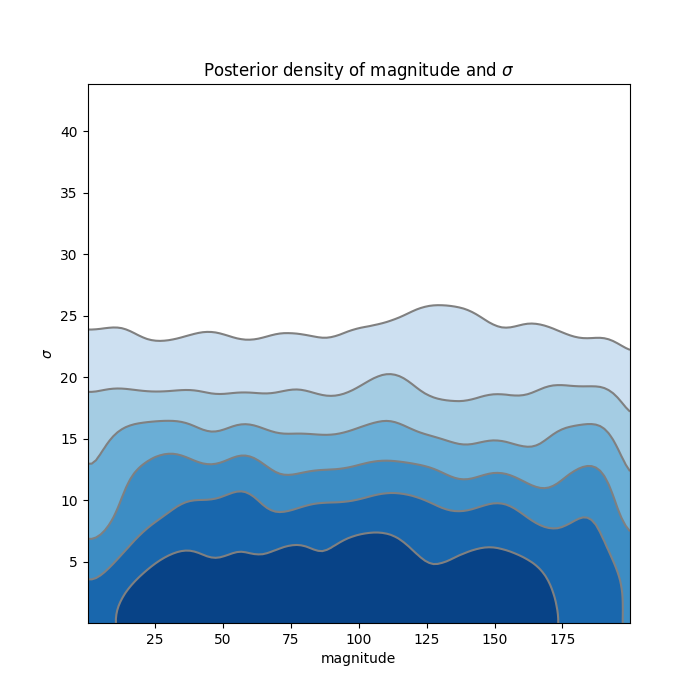
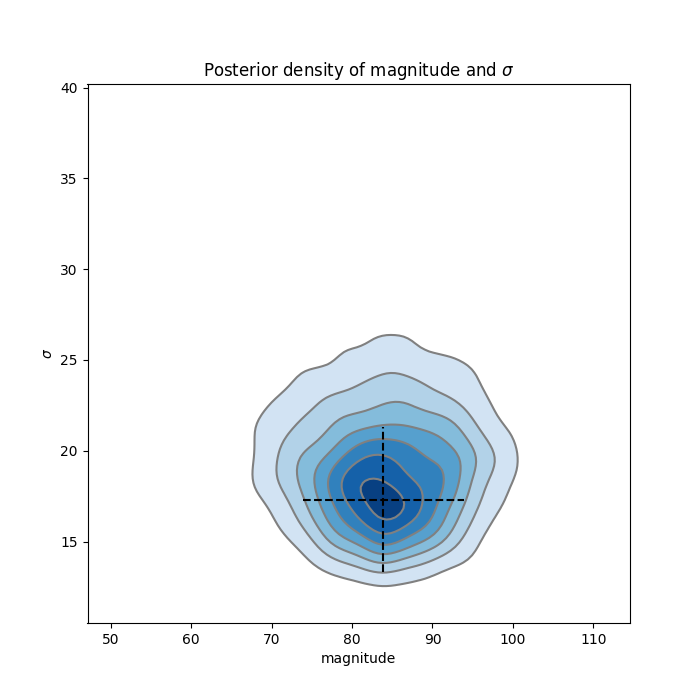
completed final hw

diff --git a/data-science/HW13_Taylor_Ryan/run_model.py b/data-science/HW13_Taylor_Ryan/run_model.py
@@ -33,13 +33,14 @@ with basic_model:
 
     # Create the model
     mu = magnitude * np.sin(2 * np.pi * seconds / period)
+    likelihood = pm.Normal("likelihood", mu=mu, sigma=sigma, observed=fish_counts)
 
     # Make chains
     trace = pm.sample(2000, tune=500)
 
     # Find maximum a posteriori estimations
-    map_magnitude = pm.find_MAP(model=basic_model)["magnitude"]
-    map_sigma = pm.find_MAP(model=basic_model)["sigma"]
+    map_magnitude = pm.find_MAP()["magnitude"]
+    map_sigma = pm.find_MAP()["sigma"]
 
 # Let the user know the MAP values
 print(f"Based on these {n} measurements, the most likely explanation:")
@@ -61,14 +62,48 @@ ax = az.plot_kde(
 ax.set_xlabel("magnitude")
 ax.set_ylabel("$\sigma$")
 ax.set_title("Posterior density of magnitude and $\sigma$")
+
+ax.vlines(
+    map_magnitude,
+    map_sigma - 4,
+    map_sigma + 4,
+    linestyle="dashed",
+    color="k",
+)
+ax.hlines(
+    map_sigma,
+    map_magnitude - 10,
+    map_magnitude + 10,
+    linestyle="dashed",
+    color="k",
+)
+
 fig.savefig("pdf.png")
 
 # Plot your function and confidence against the observed data
 fig, ax = plt.subplots(figsize=(8, 6))
-ax.plot(seconds, mu, "r", label="Model")
-ax.plot(seconds, fish_counts, "o", label="Observed")
+hours = seconds / 3600
+# observed data
+ax.plot(
+    hours,
+    fish_counts,
+    "k+",
+    label="observed",
+)
+# predictions
+model = map_magnitude * np.sin(2 * np.pi * seconds / period)
+ax.plot(
+    hours,
+    model,
+    "r--",
+    lw="0.5",
+    label="prediction",
+)
 ax.set_xlabel("Hours since low tide")
 ax.set_ylabel("Jellyfish entering bay over 15 minutes")
-ax.set_title("Model fit")
+ax.set_title("Model fit to jellyfish data")
+# Plot the 95% confidence interval
+ax.plot(hours, model + 2 * map_sigma, "g--", lw="0.5", label="95% Confidence")
+ax.plot(hours, model - 2 * map_sigma, "g--", lw="0.5")
 ax.legend()
 fig.savefig("jellyfish.png")
